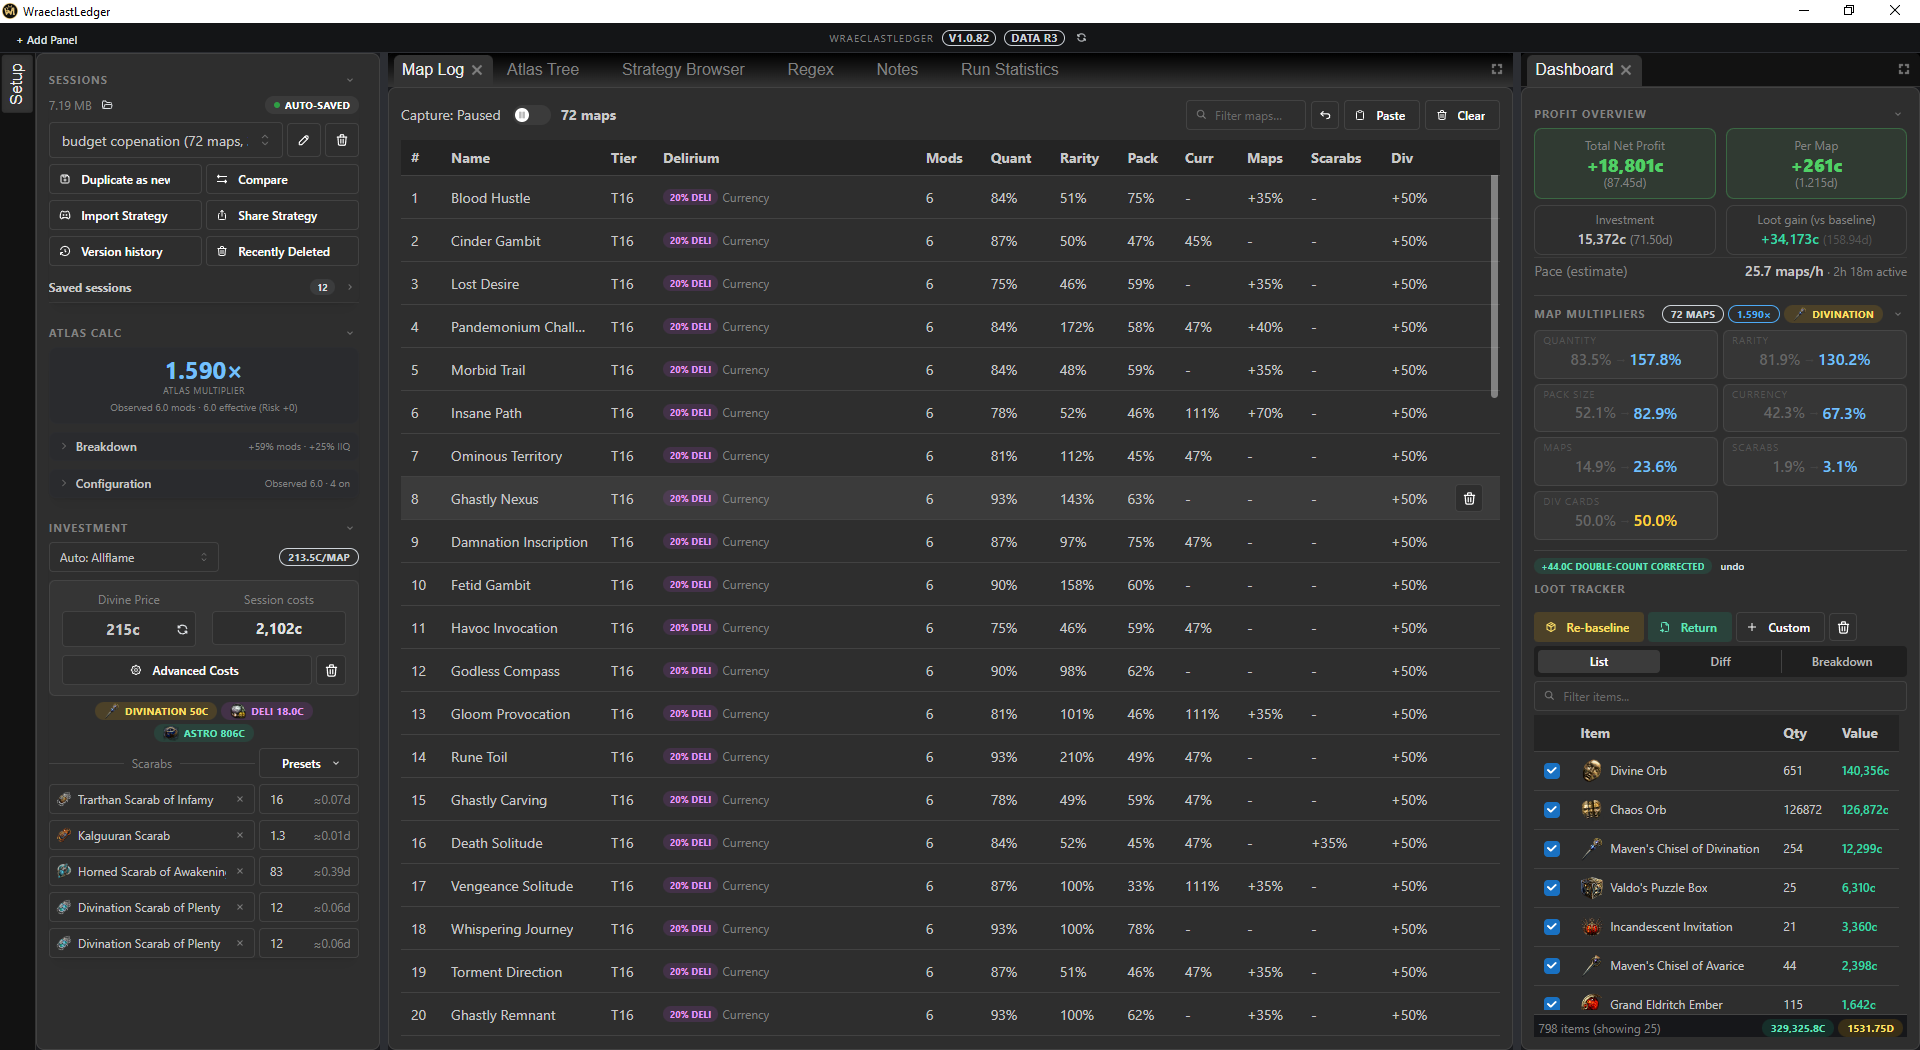
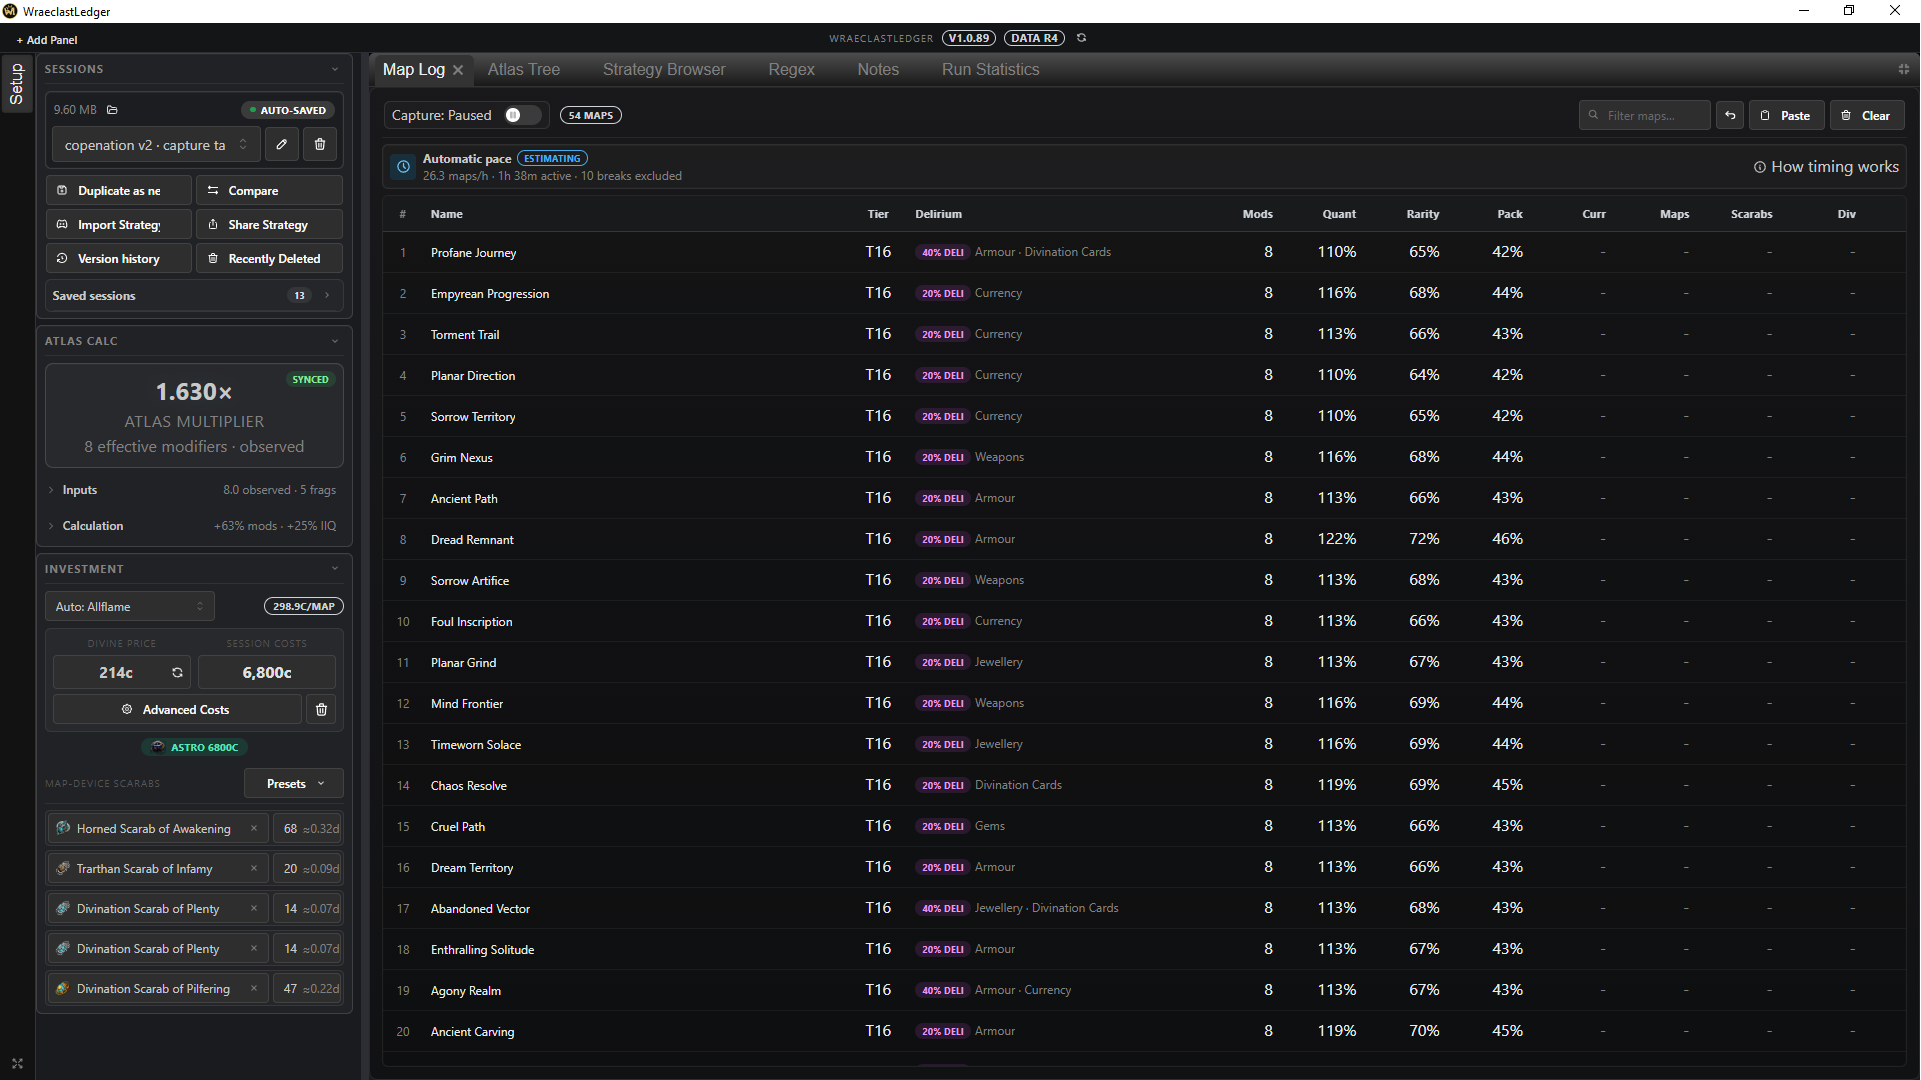
Refresh README screenshots

diff --git a/README.md b/README.md
@@ -28,11 +28,11 @@ Free for personal use — see LICENSE
 - **Map Log** — captures map tooltips from the clipboard. Filterable table with per-map detail (IIQ/IIR/pack, currency mods, scarabs, Delirious level/reward tracks, div cards).
 - **Dashboard** — session profit overview. Imports loot CSVs (currently WealthyExile exports) and shows a categorized breakdown against your baseline, plus per-map averages. Supplemental Custom drops can be entered by total value or value per item while remaining visibly disclosed as manual additions.
 - **Investment Module** — per-map cost setup (scarabs, delirium orbs, astrolabe, chisels), a session-bound Divine-price snapshot from poe.ninja with explicit refresh, cost-per-map and net profit.
-- **Atlas Calc** — effective IIQ/IIR from scarabs, atlas nodes and map tier.
-- **Regex** — one panel, two generators: stash regex from your session thresholds (min IIQ/pack/currency) with named brick-mod exclusion presets, and a K-of-N builder ("at least 3 of these 8 mods") — both stay under the 250-character stash search limit. Can open a PoE trade search pre-filled with the same filters.
+- **Atlas Calc** — synchronizes supported modifiers from your Path of Pathing tree and combines them with observed map modifiers plus Investment fragments and scarabs. Its source state stays visible when the tree changes, becomes stale, or belongs to another league.
+- **Regex** — generates stash regex from captured session thresholds and named Regular/Nightmare brick-mod exclusions. The Builder also supports K-of-N rules ("at least 3 of these 8 mods") and a guided Magic Map workflow with exact stat floors and applied-chisel adjustments. Every copied stash regex enforces the 250-character limit, and the same reviewed filters can open a pre-filled PoE trade search.
 - **Strategy Browser** — community-shared farming strategies with cost/profit breakdowns, sortable from the dropdown or table headers by latest activity, cost/map, div/map, profit, community score, and more. Sharing copies a compact submission for Discord; the channel bot validates it, posts a readable card with bounded loot evidence, and adds the strategy to the Browser. Discord reactions become its community score. Optional party size, session time, and atlas-point context can be included, and readable card exports can be pasted back into the app to compare or import a build.
 - **Atlas Tree** — embedded [pathofpathing.com](https://pathofpathing.com) planner; applied passives (and point counts, when sharing) feed the calculations.
-- **Sessions** — integrity-checked local file auto-save with bounded Version history, contextual Undo, and Recently Deleted recovery. Recorded field changes open by default and can be collapsed; New Session and Strategy Browser build loads ask before replacing meaningful unnamed work, even while you are viewing a historical session. Compare 2-3 saved sessions side by side or use portable JSON export/import. The Sessions panel shows save status and repository size and can open the complete local data folder for backup. Panels are draggable and the layout persists there too.
+- **Sessions** — integrity-checked local file auto-save with bounded Version history, contextual Undo, and Recently Deleted recovery. Recorded field changes open by default and can be collapsed; New Session and Strategy Browser build loads ask before replacing meaningful unnamed work, even while you are viewing a historical session. Compare up to six saved sessions side by side, including capture-derived Pace where available, or use portable JSON export/import. The Sessions panel shows save status and repository size and can open the complete local data folder for backup. Panels are draggable and the layout persists there too.
 - **Run Statistics (optional)** — an Add Panel-only local tracker for selected Kalguuran, Wildwood, Atlas anomaly, valuable-beast, and Mercenary outcomes. Collapsed headers show count/rate summaries, Session stays editable, and All sessions combines explicitly reported outcomes across saved runs without double-counting the active session. A per-session stopwatch and draggable always-on-top Timer/Counters companion window support pre-imported-map workflows, with optional user-defined shortcuts; clipboard-derived time remains the automatic Share default unless manual time is explicitly selected. None of this is included in shared strategies.
 
 The app auto-updates from GitHub releases.
@@ -41,7 +41,7 @@ The app auto-updates from GitHub releases.
 
 ### Map capture and session setup
 
-![Map Log, session setup, and Dashboard](docs/screenshots/2.png)
+![Map Log and session setup](docs/screenshots/2.png)
 
 ### Regex and trade search
 
@@ -54,7 +54,7 @@ npm install
 npm run dev        # dev server with hot reload
 npm start          # preview the built app
 npm run typecheck  # TypeScript checks for main/preload and renderer
-npm test           # Vitest and Cargo-query checks
+npm test           # Vitest and packaging checks
 npm run lint       # ESLint
 npm run build      # production build
 ```
